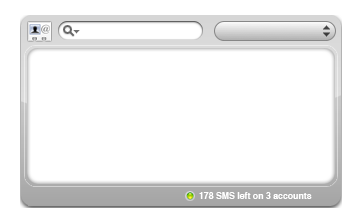
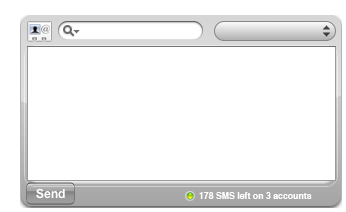
attaching YallowSMSEngine, not done yet!

Changed region(s): [[0.0578, 0.1981, 0.9827, 0.9906]]

diff --git a/SMSwiss.dcproj/project.wdgt/SettingsEngine.js b/SMSwiss.dcproj/project.wdgt/SettingsEngine.js
@@ -18,17 +18,13 @@ var defaultPreferenceValues = {
     };
 
 
-//var accountsNames = ["Sunrise", "Cablecom", "ETHZ", "-", "-"];
-//var userNames = ["Elia", "Elia", "Elia", "-", "-"];
-//var passwords = ["123", "123", "123", "-", "-"];
-//var providers = [0, 1, 2,0,0];
-//var ruuningAccount = 0;
+var smsEngine;
 
 //Public methods, Setting Engine Interface 
 //-----------------------------------------------------------
 
 this.getAccountNames = function (){
-    var accountsNames = preferenceForKey("accountsNames");
+    var accountsNames = getPreferenceForKey("accountsNames");
     return accountsNames;
 }
 
@@ -40,10 +36,10 @@ this.loadAccountData= function(accountID){
             var userName = document.getElementById("userNameText");
             var password = document.getElementById("passwordText");
             
-            var accountsNames = preferenceForKey("accountsNames");
-            var userNames = preferenceForKey("userNames");
-            var passwords = preferenceForKey("passwords");
-            var providers = preferenceForKey("providers");
+            var accountsNames = getPreferenceForKey("accountsNames");
+            var userNames = getPreferenceForKey("userNames");
+            var passwords = getPreferenceForKey("passwords");
+            var providers = getPreferenceForKey("providers");
             
             id.value=accountID;
             accountName.value = accountsNames[accountID];
@@ -53,10 +49,19 @@ this.loadAccountData= function(accountID){
 }
 
 //call this method to read from the selectedAccount list the selected item and store it
+//as the new account to use for sending sms
 this.selectRunningAccount = function(){
         var accountSelectList = document.getElementById("selectedAccount").object;
         var ruuningAccount = accountSelectList.getSelectedIndex();
         setPreferenceForKey(ruuningAccount, "ruuningAccount");
+        initSMSEngine(); //Reload the SMSengine
+}
+
+//Call this method to retreive the SMS engine
+//NOTE: Since the SMS engine can change at any time, you should always call this method to use it
+//and never store or create a local copy of the SMSengine object.
+this.getSMSEngine = function(){
+    return smsEngine;
 }
 
 
@@ -126,6 +131,7 @@ this.remove = function (){
 this.loadSettings = function (){
     loadSelectAccountList(); //Set up the front selection list
     loadAccountsNames();
+    initSMSEngine(); //Load the SMSengine;
 }
 
 // Called when the back of the widget is hidden and the done button was pressed
@@ -136,6 +142,30 @@ this.saveSettings = function (){
 
 //Private method
 //-----------------------------------------------------------
+
+//This is a privat method used to initialize the privat smsEngine object.
+//Any thame the running account is changed or user mofify some setting the engine 
+//has to be reinitialized.
+function initSMSEngine(){
+
+    smsEngine = null;
+    //Check if the current account is valid
+    //-------------------------------------- 
+        var userName = getCurrentUserName();
+        var password = getCurrentPassword();
+        var provider = getCurrentProvider();
+    
+        if(userName == undefined || userName.length == 0)//A username as to be difined
+            return;
+    //--------------------------------------    
+        
+    if(provider == 2) //Yallo
+        smsEngine = new SMSEngineYallo(userName,password);
+}
+
+
+
+
 function saveAccountData(){
             var id = document.getElementById("accountID");
             var accountName = document.getElementById("accountNameText");
@@ -144,10 +174,10 @@ function saveAccountData(){
             var password = document.getElementById("passwordText");
             
             var accountID = id.value;
-            var accountsNames = preferenceForKey("accountsNames");
-            var userNames = preferenceForKey("userNames");
-            var passwords = preferenceForKey("passwords");
-            var providers = preferenceForKey("providers");
+            var accountsNames = getPreferenceForKey("accountsNames");
+            var userNames = getPreferenceForKey("userNames");
+            var passwords = getPreferenceForKey("passwords");
+            var providers = getPreferenceForKey("providers");
             
             accountsNames[accountID]=accountName.value;
             providers[accountID]=provider.object.getSelectedIndex();
@@ -160,10 +190,12 @@ function saveAccountData(){
             setPreferenceForKey(accountsNames, "accountsNames");
 }
 
+//This method generate the account list used in the front panel of the widget
+//it also select the running account
 function loadSelectAccountList(){
                         
         var accountSelectList = document.getElementById("selectedAccount").object;
-        var accountsNames = preferenceForKey("accountsNames");
+        var accountsNames = getPreferenceForKey("accountsNames");
              
         accountSelectList.select[0].text=accountsNames[0];
         accountSelectList.select[1].text=accountsNames[1];
@@ -174,27 +206,36 @@ function loadSelectAccountList(){
         var ruuningAccount = getPreferenceForKey("ruuningAccount");
       
         accountSelectList.setSelectedIndex(ruuningAccount);
-
 }
 
+//Return the user names attacched to the running account
+function getCurrentUserName(){
+    var ruuningAccount = getPreferenceForKey("ruuningAccount");
+    var userNames = getPreferenceForKey("userNames");
+    return userNames[ruuningAccount];
+}
+//Return the password attacched to the running account
+function getCurrentPassword(){
+
+    var ruuningAccount = getPreferenceForKey("ruuningAccount");
+    var passwords = getPreferenceForKey("passwords");
+    return passwords[ruuningAccount];
+}
+//Return the SMS provider attacched to the running account
+function getCurrentProvider(){
+    var ruuningAccount = getPreferenceForKey("ruuningAccount");
+    var providers = getPreferenceForKey("providers");
+    return Number(providers[ruuningAccount]);
+}
+
+
+//Load the account names from SettingsEngine and reload the list used into the account setting page
 function loadAccountsNames(){
-    //Load the account names from SettingsEngine and reload the list
     accountDataSource._rowData= settingsEngine.getAccountNames();
     document.getElementById("accountList").object.reloadData();
 }
 
 
-function preferenceForKey(key) {
-	var result;
-	
-    result = getPreferenceForKey(key);
-	
-	if (!result) {
-		result = defaultPreferenceValues[key];
-        setPreferenceForKey(result,key);
-	}
-	return result;
-}
 
 //We have only instance preference key this because users can add multiple times the same widget to set up more
 //than only five accounts.
@@ -213,7 +254,12 @@ function setPreferenceForKey(value,key){
 //than only five accounts.
 function getPreferenceForKey(key){
     var result = widget.preferenceForKey(createInstancePreferenceKey(key));
-    if(!result) return result; //If undefined
+  
+    if (!result) { //If undefined return the default value
+		result = defaultPreferenceValues[key];
+        return result;
+	}
+    
     if(typeof(result) != "string") return result;
     if(result.indexOf("ARRAY/\|/") == -1) return result;
     var parts = result.split("/\|/");

diff --git a/SMSwiss.dcproj/project.wdgt/SMSwiss.html b/SMSwiss.dcproj/project.wdgt/SMSwiss.html
@@ -12,6 +12,8 @@
     <script type="text/javascript" src="Parts/Text.js" charset="utf-8"></script>
     <script type="text/javascript" src="Parts/InfoButton.js" charset="utf-8"></script>
     <script type="text/javascript" src="Parts/GlassButton.js" charset="utf-8"></script>
+    <script type="text/javascript" src="SimpleHTTPRequest.js" charset="utf-8"></script>
+    <script type="text/javascript" src="SMSEngineYallo.js" charset="utf-8"></script>
     <script type="text/javascript" src="SettingsEngine.js" charset="utf-8"></script>
     <script type="text/javascript" src="SMSwiss.js" charset="utf-8"></script>
     <script type="text/javascript" src="Parts/PopupButton.js" charset="utf-8"></script>
@@ -24,6 +26,8 @@
         <div class="apple-no-children" id="info" apple-part="com.apple.Dashcode.part.infobutton" apple-default-image-visibility="hidden"></div>
         <div apple-part="com.apple.Dashcode.part.lozengepopupbutton" class="apple-no-children" apple-style="image-theme: 1; image-shape: 1; image-button-type: 1; image-opacity: 1.00; image-top-color: 1,1,1,1; image-bottom-color: 0.615400016,0.615400016,0.615400016,1; image-radius: 10,10,10,10; image-border: 1; image-border-color: 0.529399991,0.529399991,0.529399991,1; image-border-width: 1; shine-strength: 0.90; shine-alpha-level: 0.67; shine-height: 0.50; glass-arc-height: 0.06; shadow-include-shadow: 0;" id="selectedAccount"></div>
         <input type="search" value="" placeholder="" results="10" incremental="incremental" class="apple-textfield apple-no-children" apple-part="com.apple.Dashcode.part.searchfield" id="searchfield">
+        <textarea apple-part="com.apple.Dashcode.part.textarea" id="textarea"></textarea>
+        <div apple-part="com.apple.Dashcode.part.glassbutton" class="apple-no-children" id="glassbutton"></div>
     </div>
     <div id="back">
         <img src="Images/back.png" alt="" apple-part="com.apple.Dashcode.part.backimage" apple-style="image-radius: 12,12,12,12;" id="backImg" apple-locked="true">

diff --git a/SMSwiss.dcproj/project.wdgt/Parts/setup.js b/SMSwiss.dcproj/project.wdgt/Parts/setup.js
@@ -8,12 +8,13 @@ var dashcodePartSpecs = {
     "accountList": { "creationFunction": "CreateList", "dataArray": ["Item 1", "Item 2", "Item 3"], "dataSourceName": "accountDataSource", "labelElementId": "label", "listStyle": "List.EDGE_TO_EDGE", "sampleRows": 5, "useDataSource": true },
     "accountNameLabel": { "creationFunction": "CreateText", "text": "Acc. Name:" },
     "done": { "creationFunction": "CreateGlassButton", "onclick": "showFront", "text": "Done" },
+    "glassbutton": { "creationFunction": "CreateGlassButton", "text": "Send" },
     "info": { "backgroundStyle": "black", "creationFunction": "CreateInfoButton", "foregroundStyle": "white", "frontID": "front", "onclick": "showBack" },
     "label": { "creationFunction": "CreateText", "text": "Item" },
     "passwordLabel": { "creationFunction": "CreateText", "text": "Password:" },
     "popup": { "creationFunction": "CreatePopupButton", "leftImageWidth": 5, "options": ["Accounts"], "rightImageWidth": 16 },
     "providerLabel": { "creationFunction": "CreateText", "text": "Provider:" },
-    "providerList": { "creationFunction": "CreatePopupButton", "leftImageWidth": 5, "options": [["Sunrise", "sunrise"], ["Calecom", "cablecom"], ["ETHZ", "ethz"]], "rightImageWidth": 16 },
+    "providerList": { "creationFunction": "CreatePopupButton", "leftImageWidth": 5, "options": [["Sunrise", "0"], ["Calecom", "1"], ["Yallo", "2"], ["ETHZ", "3"]], "rightImageWidth": 16 },
     "selectedAccount": { "creationFunction": "CreatePopupButton", "leftImageWidth": 10, "onchange": "selectRunningAccount", "options": [["", "account0"], ["", "account1"], ["", "account2"], ["", "account3"], ["", "account4"]], "rightImageWidth": 16 },
     "userNameLabel": { "creationFunction": "CreateText", "text": "User Name:" }
 };

diff --git a/SMSwiss.dcproj/project.wdgt/SMSwiss.js b/SMSwiss.dcproj/project.wdgt/SMSwiss.js
@@ -15,7 +15,7 @@ function load()
 {
     settingsEngine = new SettingsEngine();
     settingsEngine.loadSettings();
-    settingsEngine.loadAccountData(0); //Load the first account data by default
+    settingsEngine.loadAccountData(0); //Load the first account data into the account setting page by default
     dashcode.setupParts();
 }
 
@@ -73,7 +73,7 @@ function sync()
 //
 function showBack(event)
 {
-    settingsEngine.loadSettings();
+    //settingsEngine.loadSettings(); reloading settings is probably non needed when showing the back of the widget
     
     var front = document.getElementById("front");
     var back = document.getElementById("back");

diff --git a/SMSwiss.dcproj/project.wdgt/SMSwiss.css b/SMSwiss.dcproj/project.wdgt/SMSwiss.css
@@ -261,3 +261,26 @@ body {
     bottom: 171px;
     height: auto;
 }
+
+#textarea {
+    color: black;
+    font-family: HelveticaNeue;
+    font-size: 10pt;
+    position: absolute;
+    right: auto;
+    bottom: auto;
+    margin-top: 0px;
+    left: 27px;
+    top: 46px;
+    width: 307px;
+    height: 133px;
+}
+
+#glassbutton {
+    position: absolute;
+    right: auto;
+    bottom: auto;
+    margin-top: 0px;
+    top: 182px;
+    left: 26px;
+}
